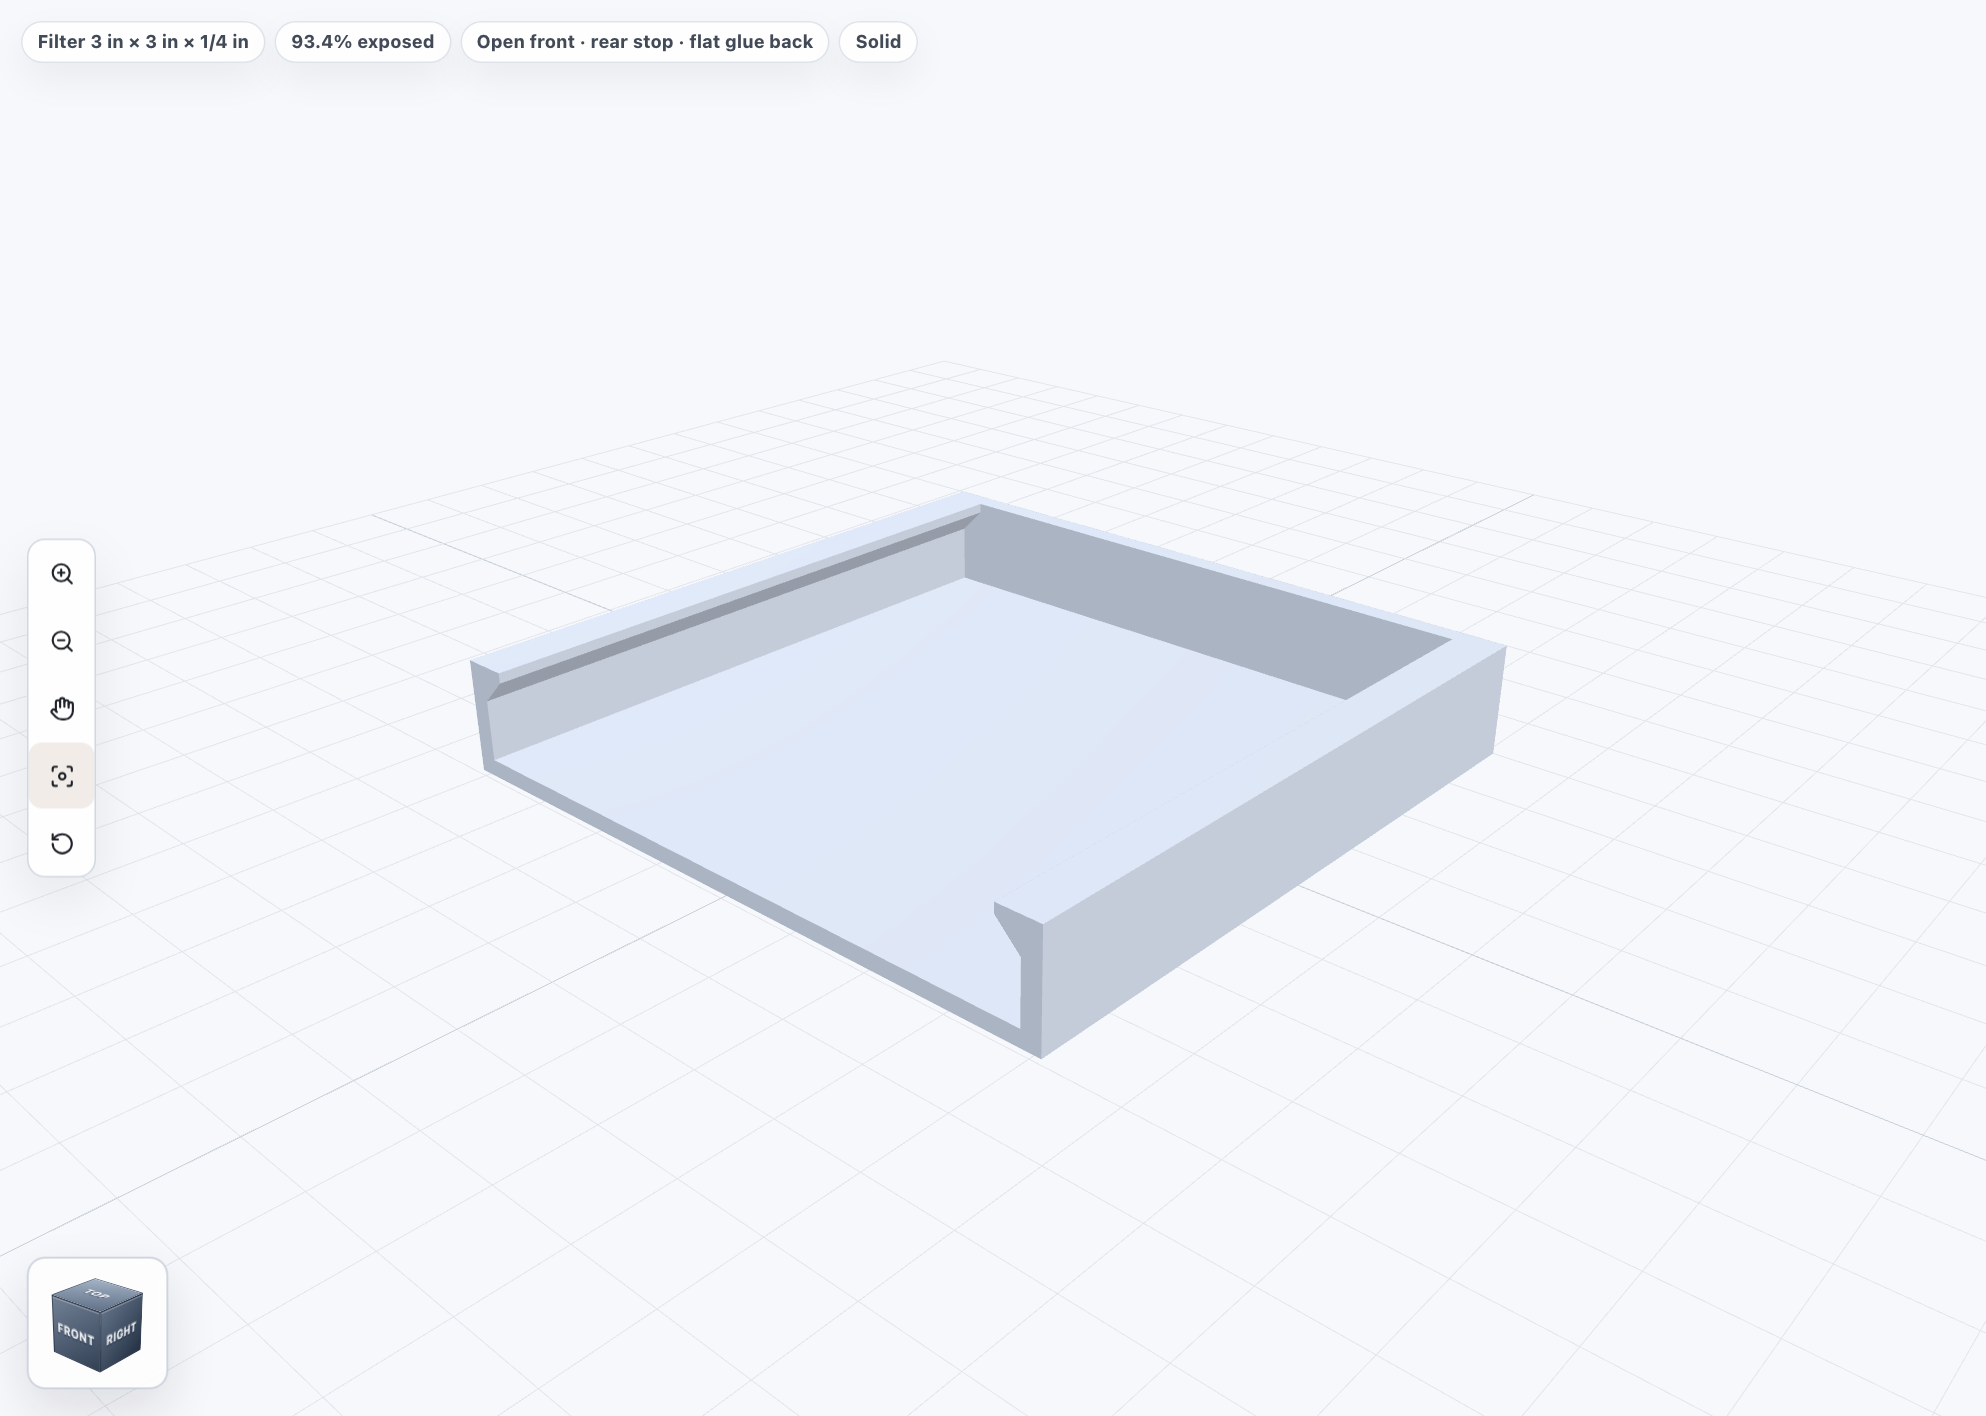
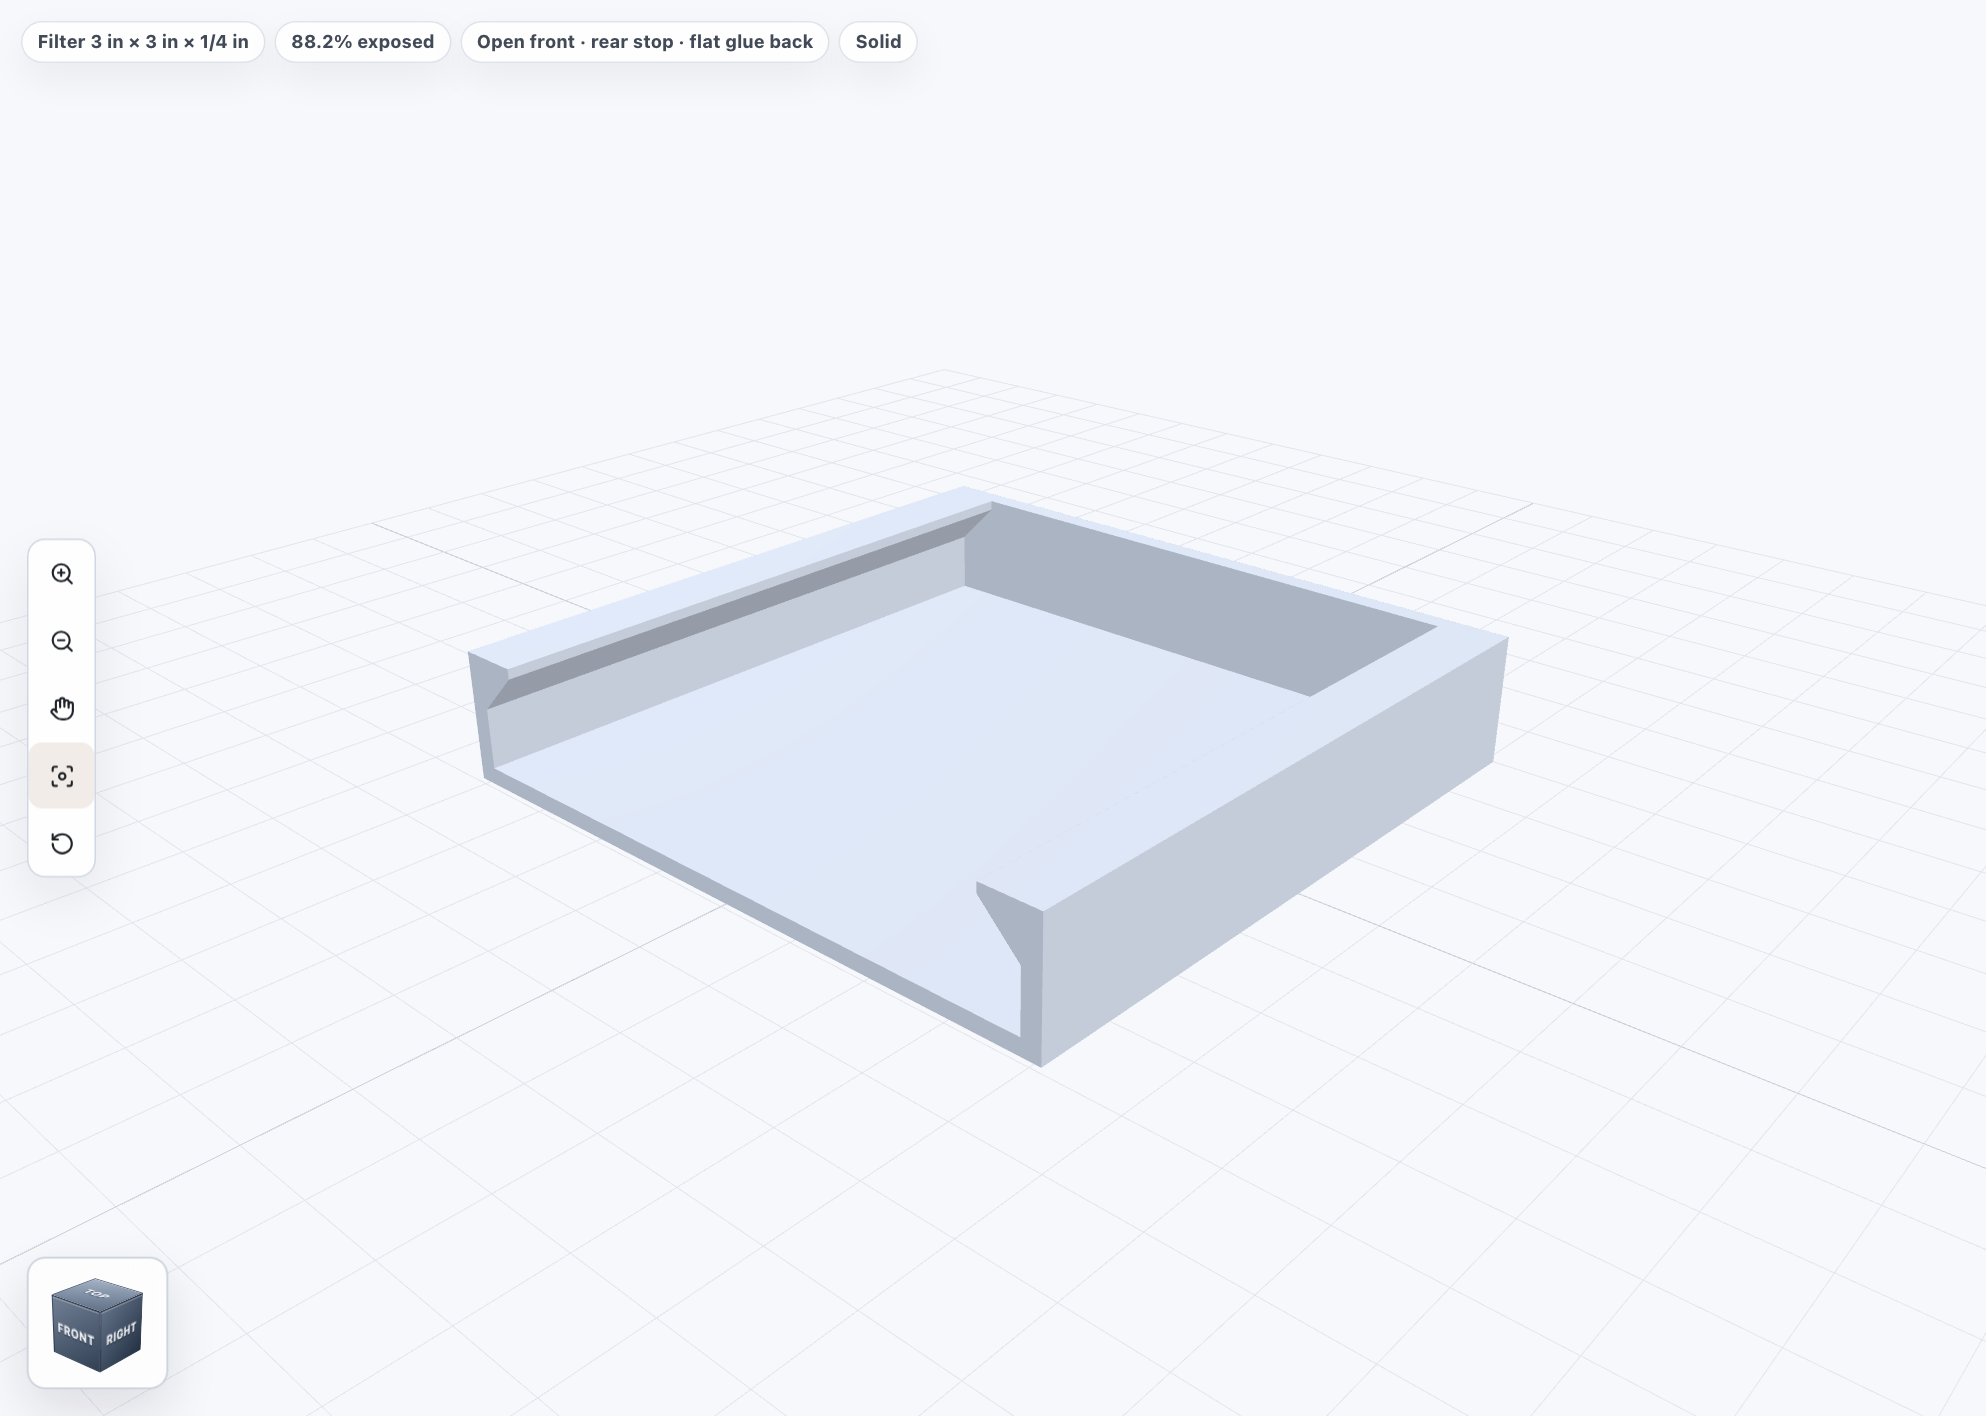
Widen carbon filter retaining lips to 5 mm

diff --git a/tests/e2e/carbon-filter-holder.spec.ts b/tests/e2e/carbon-filter-holder.spec.ts
@@ -21,8 +21,9 @@ test("opens from the catalog, previews sliding, restores dimensions and exports 
   await expect(page.getByRole("heading", { name: "Carbon Filter Holder", exact: true })).toBeVisible();
   const canvas = page.locator(".scene-panel canvas");
   await expect(canvas).toBeVisible();
-  await expect(page.getByTestId("carbon-filter-exposure")).toContainText("93.4%");
+  await expect(page.getByTestId("carbon-filter-exposure")).toContainText("88.2%");
   await expect(page.getByLabel("Filter thickness in millimeters")).toHaveValue("6.35");
+  await expect(page.getByLabel("Retaining lip width in millimeters")).toHaveValue("5.00");
   await expect(page.getByText("Physical fit", { exact: true })).toBeVisible();
   await expect(page.getByText(/Test the actual filter fit and lid adhesive/)).toBeVisible();
   const image = PNG.sync.read(await canvas.screenshot());
@@ -52,7 +53,7 @@ test("opens from the catalog, previews sliding, restores dimensions and exports 
     page.getByRole("button", { name: "Workspace actions" }).click().then(() =>
       page.getByRole("button", { name: "Export", exact: true }).click()),
   ]);
-  expect(download.suggestedFilename()).toBe("carbon-filter-holder-80x76.2x6.35-clearance-0.5-lip-3.stl");
+  expect(download.suggestedFilename()).toBe("carbon-filter-holder-80x76.2x6.35-clearance-0.5-lip-5.stl");
   const bytes = fs.readFileSync((await download.path())!);
   const exported = new STLLoader().parse(bytes.buffer.slice(bytes.byteOffset, bytes.byteOffset + bytes.byteLength));
   const expected = createCarbonFilterHolderGeometry({

diff --git a/docs/testing-and-audit-coverage.md b/docs/testing-and-audit-coverage.md
@@ -87,4 +87,4 @@ The circular-leg revision uses a 3 mm root and a circular crown matching the ass
 
 ## Carbon filter holder
 
-The 3 × 3 × 1/4 inch trash-can filter request is implemented in `src/models/carbonFilterHolder.ts` and its catalog configuration. `models/carbon-filter-holder/audit.mjs` verifies the flat glue back, two side retaining lips, 93.44% exposure, open insertion path, rear stop, print orientation, manifold topology and STL parity across fit variations. `tests/e2e/carbon-filter-holder.spec.ts` checks catalog access, filter preview/withdrawal, dimensions, dependent overlap, URL restoration, export isolation and responsive containment. Actual filter fit and adhesive retention remain unverified.
+The 3 × 3 × 1/4 inch trash-can filter request is implemented in `src/models/carbonFilterHolder.ts` and its catalog configuration. `models/carbon-filter-holder/audit.mjs` verifies the flat glue back, two side retaining lips, 88.19% exposure, open insertion path, rear stop, print orientation, manifold topology and STL parity across fit variations. `tests/e2e/carbon-filter-holder.spec.ts` checks catalog access, filter preview/withdrawal, dimensions, dependent overlap, URL restoration, export isolation and responsive containment. Actual filter fit and adhesive retention remain unverified.

diff --git a/docs/carbon-filter-holder-audit-specifications.md b/docs/carbon-filter-holder-audit-specifications.md
@@ -10,16 +10,16 @@ Default dimensions:
 
 | Feature | Dimension |
 | --- | --- |
-| Overall holder | 82 × 79.1 × 13.35 mm (about 3.23 × 3.11 × 0.53 in) |
+| Overall holder | 82 × 79.1 × 15.35 mm (about 3.23 × 3.11 × 0.60 in) |
 | Clear slide opening | 77.2 mm wide × 7.15 mm high |
 | Width clearance | 0.5 mm per side |
 | Rear clearance | 0.5 mm; seated filter front is flush with the mouth |
 | Thickness allowance | 0.8 mm total |
 | Glue back | 2 mm thick, uninterrupted 82 × 79.1 mm flat face |
 | Side and rear walls | 2.4 mm thick |
-| Side retaining lips | 3 mm projection, 2.5 mm overlap over each filter edge |
-| Lip tips | 1.2 mm thick above a 3 mm rise at 45 degrees |
-| Exposed filter face | 93.44% of nominal face area, projected through the opening |
+| Side retaining lips | 5 mm projection, 4.5 mm overlap over each filter edge |
+| Lip tips | 1.2 mm thick above a 5 mm rise at 45 degrees |
+| Exposed filter face | 88.19% of nominal face area, projected through the opening |
 
 Print with the glue face on the bed and the lips up. The lip undersides rise at
 45 degrees above the clear sliding envelope so they do not require supports.

diff --git a/docs/specifications.md b/docs/specifications.md
@@ -23,7 +23,7 @@ This document defines the product and engineering contract for the 3D Prints app
 ## Carbon Filter Holder
 
 - The filter defaults to 76.2 × 76.2 × 6.35 mm (3 × 3 × 1/4 in).
-- A flat glue back mounts under the trash-can lid; two side lips retain the filter and leave 93.44% of its trash-facing face exposed.
+- A flat glue back mounts under the trash-can lid; two 5 mm side lips retain the filter and leave 88.19% of its trash-facing face exposed.
 - One edge is fully open for replacement; the opposing rear wall is the stop. No front bar crosses the insertion path.
 - Independent filter dimensions and sliding allowances derive the channel, envelope and lip overlap. A minimum 1.2 mm overlap is preserved as clearance changes.
 - The glue face prints flat at Z=0 with 45-degree lip undersides. Preview-only filter withdrawal never enters STL exports.
